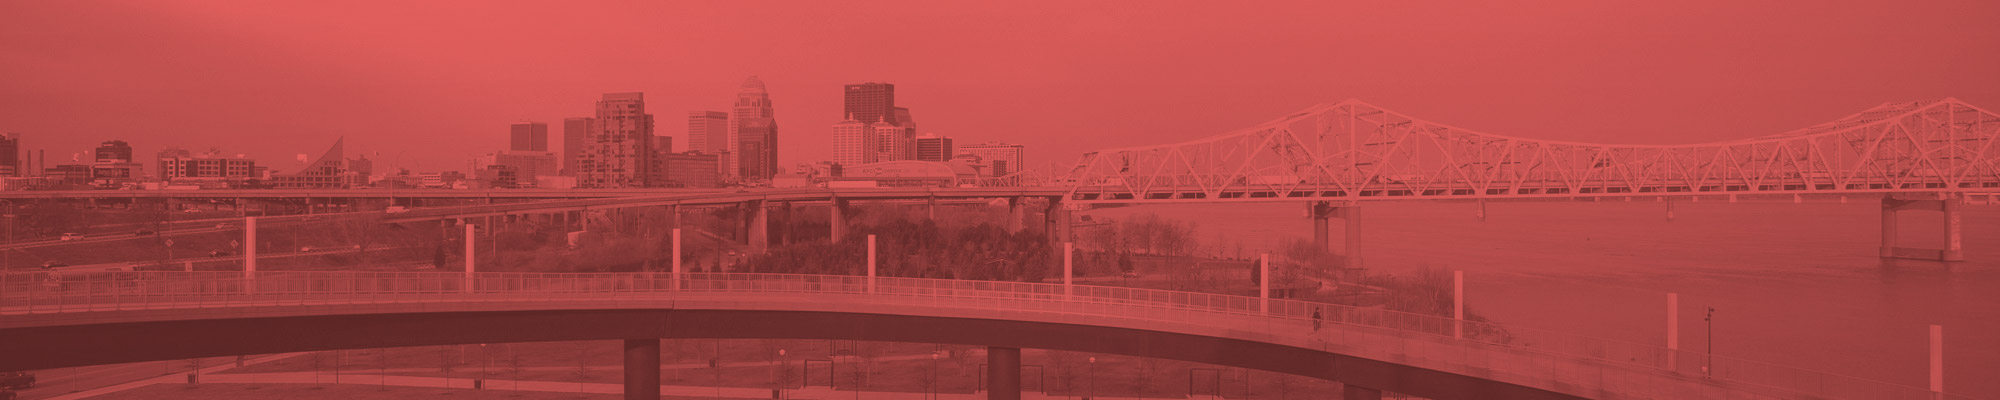
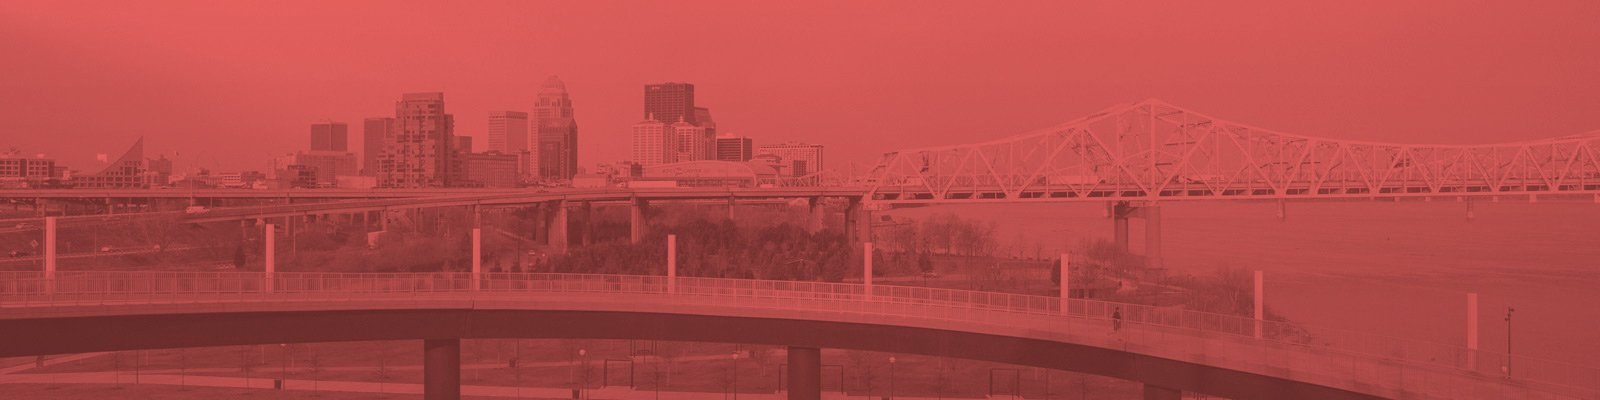
changed johns talk title, replaced github ribbon with text link, added some responsive styles for hero

diff --git a/index.html b/index.html
@@ -4,7 +4,7 @@ title: Laravel Louisville
 ---
 
 <p><strong>Who we are</strong></p>
-<p>We're a group of web developers and PHP programmers who enjoy building software with the Laravel framework. The goal of Laravel Louisville is to help build the software engineering community in Louisville by teaching each other how to write quality software in PHP.</p>
+<p>We&rsquo;re a group of web developers and PHP programmers who enjoy building software with the Laravel framework. The goal of Laravel Louisville is to help build the software engineering community in Louisville by teaching each other how to write quality software in PHP.</p>
 
 <h3 class="section-title">February Meetup</h3>
 
@@ -15,12 +15,13 @@ title: Laravel Louisville
 <p>iHub <a href="https://www.google.com/maps/dir//204+S+Floyd+St,+Louisville,+KY+40202/@38.253777,-85.748444,17z/data=!4m8!4m7!1m0!1m5!1m1!1s0x886972b8e377c25b:0xd6ae4f43098b929b!2m2!1d-85.748444!2d38.253777" target="_blank">204 South Floyd Street, Louisville, KY</a></p>
 
 <p><strong>The schedule</strong></p>
+
 <ul class="schedule">
     <li><span class="time">6:00</span> Arrive, grab some pizza and a drink</li>
-    <li><span class="time">6:10</span> <a href="https://github.com/brianwebb01">Brian Webb</a> "Welcome &amp; Vision for this Group"</li>
-    <li><span class="time">6:15</span> <a href="https://github.com/troyharvey">Troy Harvey</a> "Your First Laravel App" &mdash; Beginner Ignite Talk</li>
-    <li><span class="time">6:30</span> <a href="https://github.com/cegrif01">Charles Griffin</a> "Fearless Polymorphism" &mdash; Intermediate Ignite Talk</li>
-    <li><span class="time">6:45</span> <a href="https://twitter.com/jarstingstall">John Arstingstall</a> "Service Providers, Facades, and the Ioc Container" &mdash; Advanced Ignite Talk</li>
+    <li><span class="time">6:10</span> <a href="https://github.com/brianwebb01">Brian Webb</a> &ldquo;Welcome &amp; Vision for this Group&rdquo;</li>
+    <li><span class="time">6:15</span> <a href="https://github.com/troyharvey">Troy Harvey</a> &ldquo;Your First Laravel App&rdquo; &mdash; Beginner Ignite Talk</li>
+    <li><span class="time">6:30</span> <a href="https://github.com/cegrif01">Charles Griffin</a> &ldquo;Fearless Polymorphism&rdquo; &mdash; Intermediate Ignite Talk</li>
+    <li><span class="time">6:45</span> <a href="https://github.com/jarstingstall">John Arstingstall</a> &ldquo;Laravel Architecture - Part 1: The IoC Container&rdquo; &mdash; Advanced Ignite Talk</li>
     <li><span class="time">7:00</span> Open Discussion</li>
 </ul>
 

diff --git a/assets/stylesheets/css/main.css b/assets/stylesheets/css/main.css
@@ -20,6 +20,9 @@
 
 footer.main {
   padding: 1em 2em;
+  color: #f1f1f1;
+  text-align: right;
+  margin-top: 2em;
   border-top: 1px solid #f1f1f1; }
 
 .fat-button {
@@ -57,11 +60,14 @@ footer.main {
 
 .hero {
   padding: 4em 2em 6em;
-  background: #f26663 url("../../images/hero-background.jpg") bottom center no-repeat;
-  background-size: cover;
+  background: #f26663;
   text-align: center; }
+  @media screen and (min-width: 481px) {
+    .hero {
+      background: #f26663 url("../../images/hero-background.jpg") bottom center no-repeat;
+      background-size: cover; } }
   .hero .page-title {
-    font-size: 6em;
+    font-size: 4.5em;
     line-height: 1;
     font-weight: 100;
     margin-bottom: 0;
@@ -69,6 +75,9 @@ footer.main {
     .hero .page-title a {
       color: white;
       text-decoration: none; }
+    @media screen and (min-width: 481px) {
+      .hero .page-title {
+        font-size: 6em; } }
   .hero .page-subtitle {
     margin-top: 0;
     color: white;
@@ -81,6 +90,25 @@ footer.main {
       border-top: 2px solid white; }
   .hero .divider {
     margin: 0 0.5em; }
+  .hero .btn {
+    border: 2px solid white; }
+    @media screen and (min-width: 481px) {
+      .hero .btn {
+        border: none; } }
+
+.github-ribbon {
+  padding: 0.5em 1em;
+  color: white;
+  font-size: 1em;
+  position: absolute;
+  top: 0;
+  right: 0;
+  display: block;
+  text-decoration: none;
+  opacity: 0.5; }
+  .github-ribbon:hover {
+    color: white;
+    opacity: 0.75; }
 
 body {
   margin: 0; }
@@ -103,8 +131,7 @@ article, section:not(.page-wrapper):not(.hero):not(.full-width) {
   max-width: 50em;
   margin-left: auto;
   margin-right: auto;
-  padding: 2em;
-  border-bottom: 1px solid #f1f1f1; }
+  padding: 2em; }
   article:before, section:not(.full-width):not(.hero):not(.page-wrapper):before, article:after, section:not(.full-width):not(.hero):not(.page-wrapper):after {
     content: " ";
     display: table; }
@@ -170,6 +197,9 @@ body {
   line-height: 1.5;
   font-weight: 300;
   color: #444444; }
+  @media screen and (min-width: 769px) {
+    body {
+      font-size: 14.75px; } }
   @media screen and (min-width: 481px) {
     body {
       font-size: 16px; } }

diff --git a/_layouts/default.html b/_layouts/default.html
@@ -28,7 +28,7 @@
 
         <section class="intro full-width">
 
-            <h4 class="pitch">You spent your entire day <strong>in front of a computer</strong> making things. Come out and <strong>join some other humans</strong> in Louisville who do the same thing.</h4>
+            <h4 class="pitch">You spend your entire day <strong>in front of a computer</strong> making stuff. Come out and <strong>join some other humans</strong> in Louisville who do the same.</h4>
 
         </section>
 
@@ -40,18 +40,18 @@
                 
             </article>
 
-            <footer class="main">
-            
-                <p>
-                    <a href="http://www.meetup.com/laravel-louisville">meetup.com/laravel-louisville</a> | 
-                    <a href="https://github.com/laravel-louisville">github.com/laravel-louisville</a>
-                </p>
-            
-            </footer><!--/ main -->
-
         </section><!--/ page-wrapper-->
 
-        <a href="https://github.com/laravel-louisville/meetup"><img style="position: absolute; top: 0; right: 0; border: 0;" src="https://github-camo.global.ssl.fastly.net/52760788cde945287fbb584134c4cbc2bc36f904/68747470733a2f2f73332e616d617a6f6e6177732e636f6d2f6769746875622f726962626f6e732f666f726b6d655f72696768745f77686974655f6666666666662e706e67" alt="Fork me on GitHub" data-canonical-src="https://s3.amazonaws.com/github/ribbons/forkme_right_white_ffffff.png"></a>
+        <footer class="main">
+
+            <p>
+                <a href="http://www.meetup.com/laravel-louisville">meetup.com/laravel-louisville</a> | 
+                <a href="https://github.com/laravel-louisville">github.com/laravel-louisville</a>
+            </p>
+
+        </footer><!--/ main -->
+
+        <a href="https://github.com/laravel-louisville/meetup" class="github-ribbon">Fork on GitHub</a>
 
     </body>
 </html>

diff --git a/assets/stylesheets/sass/partials/_hero.scss b/assets/stylesheets/sass/partials/_hero.scss
@@ -2,12 +2,15 @@
 
 .hero {
     @include pad(4em 2em 6em);
-    background: $laravel-dk url("../../images/hero-background.jpg") bottom center no-repeat;
-    background-size: cover;
+    background: $laravel-dk;
     text-align: center;
+    @include media(481px) {
+        background: $laravel-dk url("../../images/hero-background.jpg") bottom center no-repeat;
+        background-size: cover;
+    }    
 
     .page-title {
-        font-size: 6em;
+        font-size: 4.5em;
         line-height: 1;
         font-weight: 100;
         margin-bottom: 0;
@@ -16,6 +19,9 @@
             color: $white;
             text-decoration: none;
         }
+        @include media(481px) {
+            font-size: 6em;
+        }    
     }
 
     .page-subtitle {
@@ -33,5 +39,29 @@
 
     .divider {
         margin: 0 0.5em;
+    }
+
+    .btn {
+        border: 2px solid $white;
+        @include media(481px) {
+                border: none;
+        }    
+    }
+        
+}
+
+.github-ribbon {
+    padding: 0.5em 1em;
+    color: $white;
+    font-size: 1em;
+    position: absolute;
+    top: 0;
+    right: 0;
+    display: block;
+    text-decoration: none;
+    opacity: 0.5;
+    &:hover {
+        color: $white;
+        opacity: 0.75;
     }
 }

diff --git a/assets/stylesheets/sass/partials/_typography.scss b/assets/stylesheets/sass/partials/_typography.scss
@@ -11,6 +11,10 @@ body {
     font-weight: 300;
     color: $gray-dk;
 
+    @include media(769px) {
+        font-size: 14.75px;            
+    }
+
     @include media(481px) {
         font-size: 16px;            
     }

diff --git a/assets/stylesheets/sass/partials/_footer.scss b/assets/stylesheets/sass/partials/_footer.scss
@@ -2,5 +2,8 @@
 
 footer.main {
     @include pad(1em 2em);
+    color: $gray-lt;
+    text-align: right;
+    margin-top: 2em;
     border-top: 1px solid $gray-lt;
 }

diff --git a/assets/stylesheets/sass/partials/_layout.scss b/assets/stylesheets/sass/partials/_layout.scss
@@ -19,7 +19,6 @@ section {
 article {
     @include outer-container;
     @include pad(2em);
-    border-bottom: 1px solid $gray-lt;
 }
 
 .page-wrapper {
